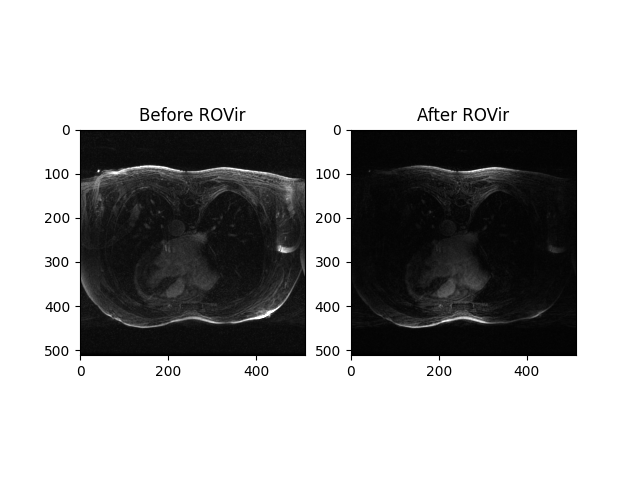
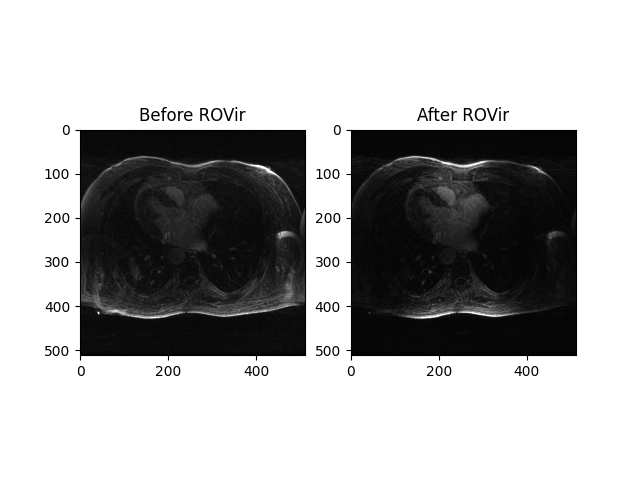
New_agumentation

diff --git a/ROVir/main.py b/ROVir/main.py
@@ -14,7 +14,7 @@ data_path = os.path.join(*dirs)
 A_W = slice(100, 350)
 B1_W = slice(0, 90)
 B2_W = slice(430, -1)
-A_H = slice(220, 390)
+A_H = slice(120, 290)
 B1_H = slice(80, 450)
 
 LINE = 300
@@ -30,18 +30,18 @@ H_H = slice(230, 400)
 def main():
 
     img = nib.load(os.path.join(data_path, "Slice44-AllChannels.nii"))
+    print(type(img))
 
     height = img.shape[0]
     width = img.shape[1]
     num_coils = img.shape[2]
     # lowf = int(input("lowf = "))
-    lowf = 15
+    lowf = 12
 
-    img_np = np.transpose(
-        np.array(img.dataobj), 
-        axes=(0,2,1)
-    )
-    #img_np.transpose(0,2,1)
+    img_np = np.array(img.dataobj)
+    img_np = np.flipud(img_np).copy()
+
+    
     
 
     prev_img = combine_images(img_np)
@@ -62,10 +62,10 @@ def main():
         "prev_img"
     )
     
-    plot_image(
-        prev_img,
-        save=True
-    )
+   # plot_image(
+   #     prev_img,
+   #     save=True
+   # )
 
     plot_images(prev_img,
                 "Before ROVir",
@@ -87,7 +87,7 @@ def main():
 
     plot_intensities(
         prev_img, new_img, 
-        267, save=True
+        247, save=True
     )
     plt.tight_layout()
     plt.show()
